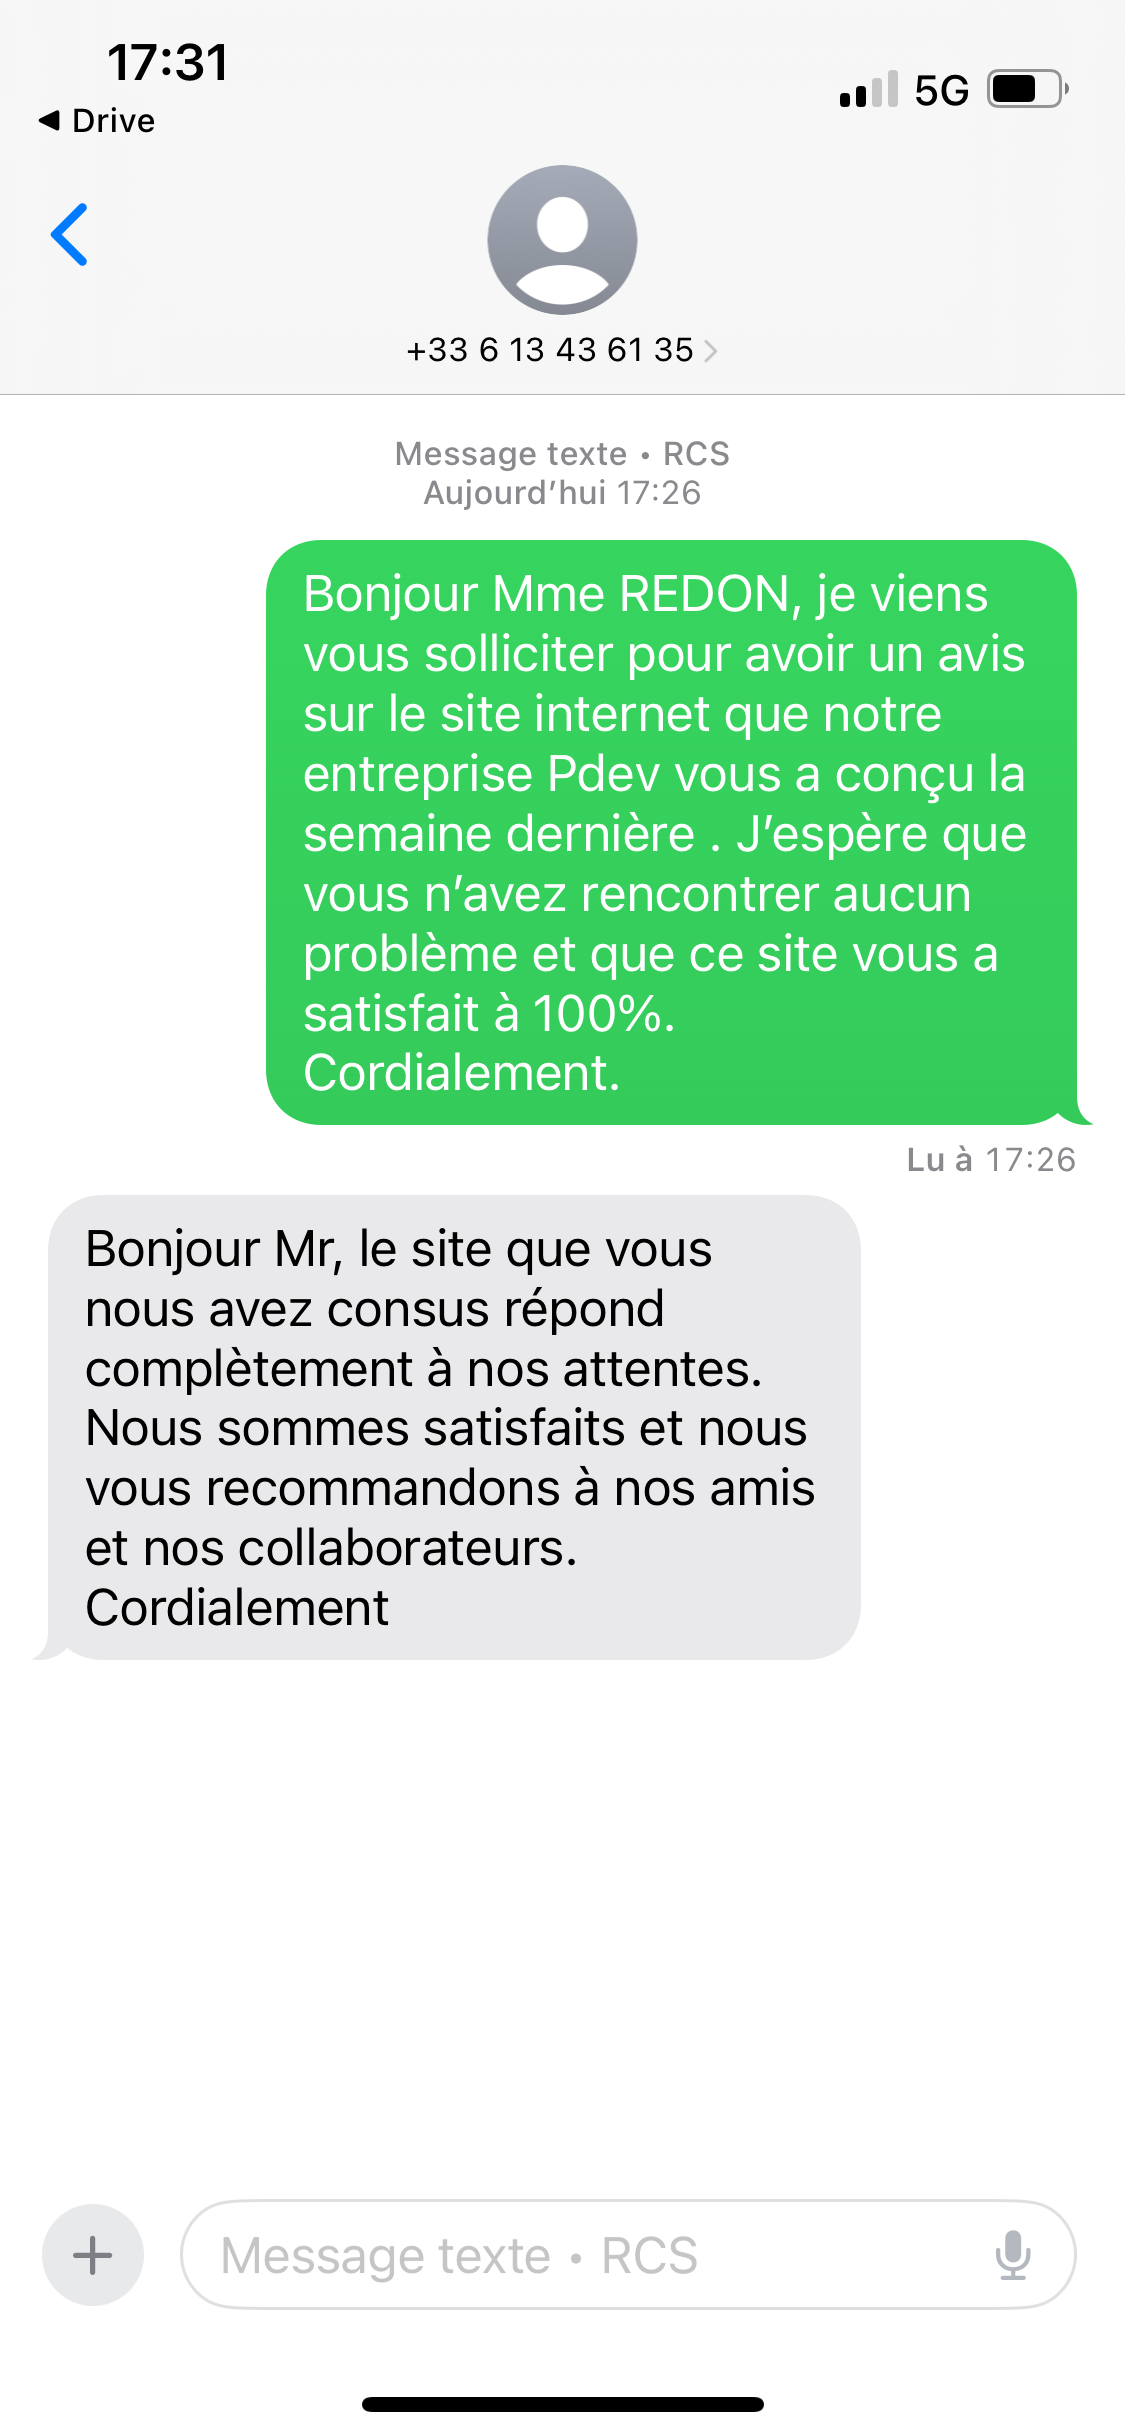
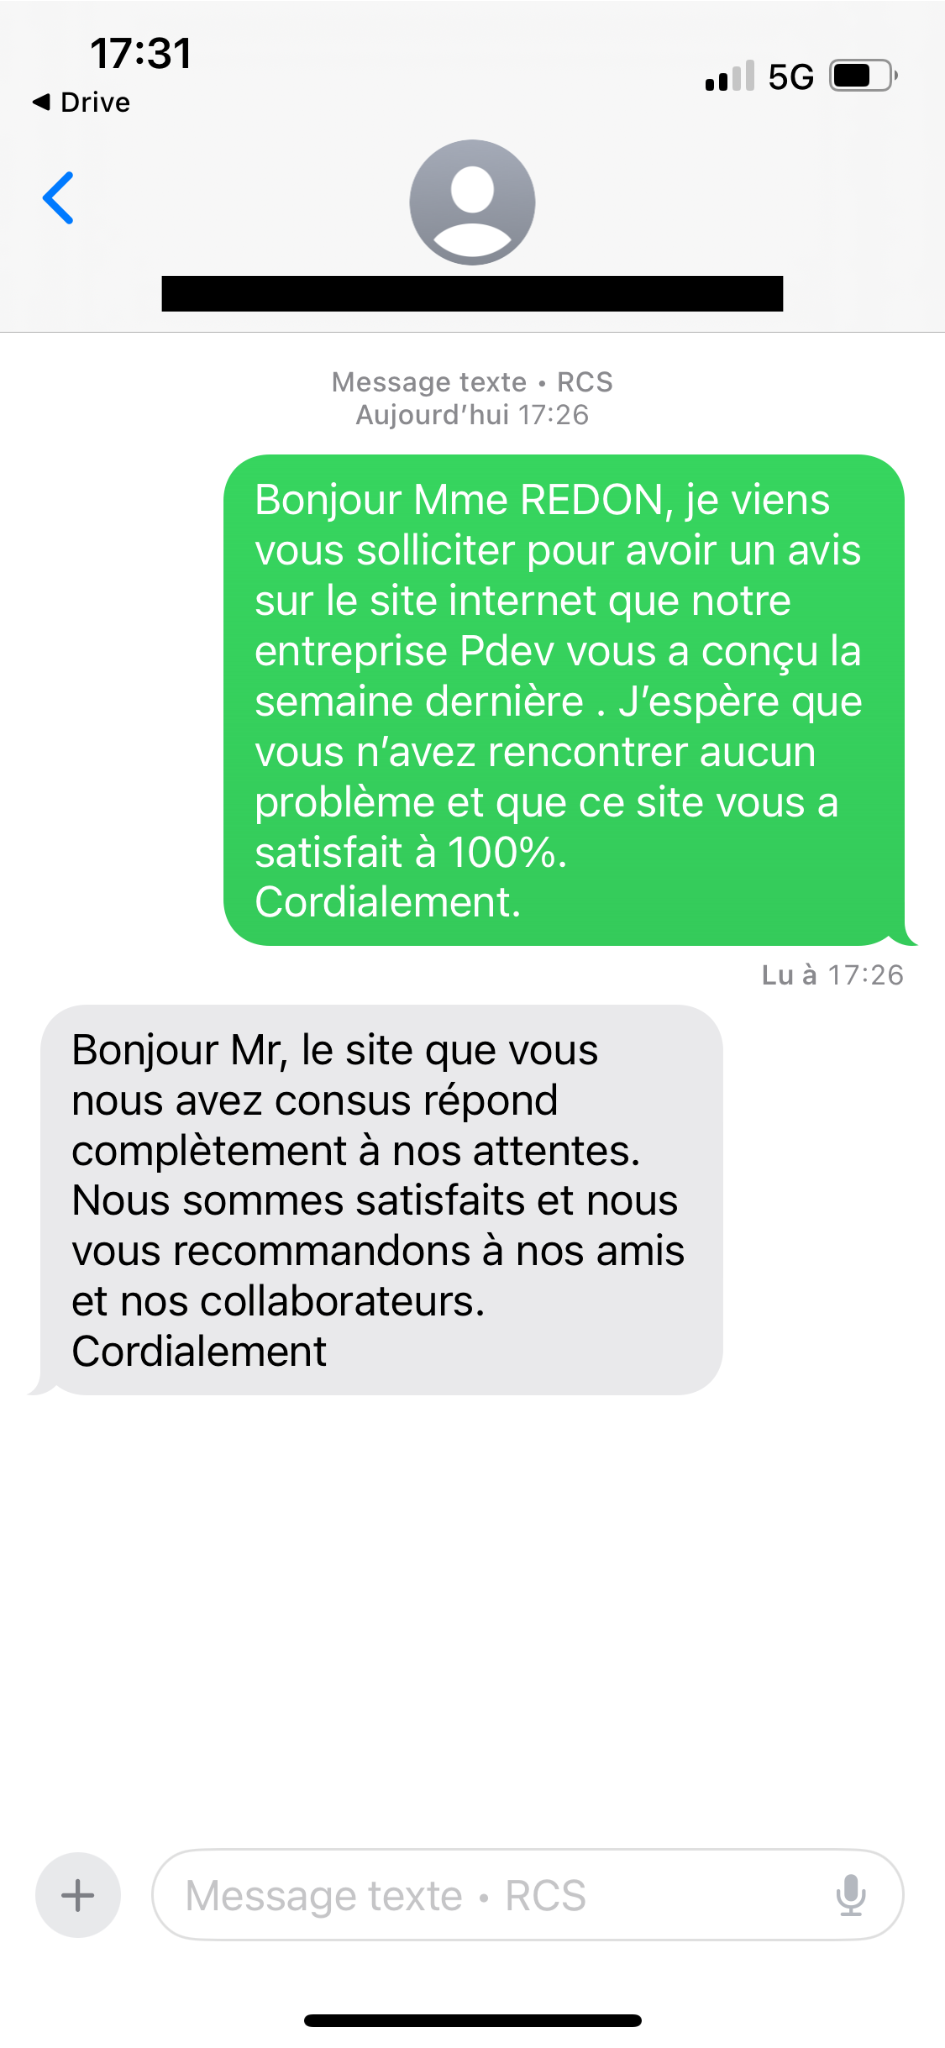
a

diff --git a/src/components/Home.jsx b/src/components/Home.jsx
@@ -26,121 +26,94 @@ navigate("/requestQuote");
         <div className="grid grid-cols-2 max-lg:grid-cols-1 ">
           {/* Partie gauche */}
           <div className="ml-5 text-wrap">
-            <h1 className="mt-30 font-bold text-5xl flex justify-center great-vibes-regular">
-              A quoi servons nous exactement ?
-            </h1>
-            <p className="mt-10 text-lg great-vibes-regular">
-              Ce site permet de faire une demande de devis concernant des
-              prestations sur une application ou un site web. Nous sommes des
-              développeurs avec une grande expérience et nous avons déjà eu
-              quelques clients tous satisfaits par notre travail :
-            </p>
-
-            <div className="flex mt-10 ml-20 gap-20">
-              <Modal />
-              <Modal1 />
-            </div>
-
-            <div className="flex items-start gap-50 mt-20">
-              <div className="text-lg great-vibes-regular">
-                <ul>Nous pouvons réaliser différentes prestations :</ul>
-                <li>Site vitrine</li>
-                <li>Site e-commerce</li>
-                <li>Maquette site internet</li>
-                <li>Dépannage site</li>
-                <li>Back end gestion base de données</li>
-                <li>Amélioration performance du site</li>
+            <div id="container">
+              Obtenez votre
+              <div id="flip">
+                <div><div>moderne</div></div>
+                <div><div>responsive</div></div>
+                <div><div>performant</div></div>
               </div>
-                <div className="flex">
+              Site internet
+            </div>
+            <h2 className="mt-10 font-bold text-4xl flex justify-center great-vibes-regular">
+              A quoi servons nous exactement ?
+            </h2>
+            <p className="mt-10  ml-10 text-lg great-vibes-regular">
+              Ce site permet de faire une demande de devis concernant des
+              prestations sur une application ou un site web. Nous savons tous faire , meme si vous ne trouvez pas votre bonheur dans les prestations proposés hésiter pas à nous contacter , l'informatique ca nous connait !
+            </p>
+            <div className="flex gap-5 mt-10">
+                <a class="block max-w-sm p-6 bg-white border border-gray-200 rounded-lg">
+                <h5 class="mb-2 text-2xl font-bold tracking-tight text-gray-900 dark:text-white">Réalisation de site complet</h5>
+                <p class="font-normal text-gray-700 dark:text-gray-400">Nous pouvons vous éditer un site vitrine ou un site e-commerce.</p>
+                <button type="button" className="bg-gray-200 mt-2 p-2">A partir de 500€</button>
+                </a>
+                <a class="block max-w-sm p-6 bg-white border border-gray-200 rounded-lg">
+                <h5 class="mb-2 text-2xl font-bold tracking-tight text-gray-900 dark:text-white">Dépannage de votre site</h5>
+                <p class="font-normal text-gray-700 dark:text-gray-400">Si vous avez nimporte qu'elle bug, apellez nous !</p>
+                <button type="button" className="bg-gray-200 mt-2 p-2">A partir de 600€</button>
+                </a>
+                <a class="block max-w-sm p-6 bg-white border border-gray-200 rounded-lg">
+                <h5 class="mb-2 text-2xl font-bold tracking-tight text-gray-900 dark:text-white">Réalisation d'une maquette</h5>
+                <p class="font-normal text-gray-700 dark:text-gray-400">Nous pouvons vous éditer une simple maquette de site</p>
+                <button type="button" className="bg-gray-200 mt-2 p-2">A partir de 300€</button>
+                </a>
+            </div>
+                <div className="flex justify-center">
               <button
               onClick={handleClick}
                 className="cursor-pointer mt-15 rounded-md border-2 border-amber-50 w-[150px] h-[50px] relative group overflow-hidden 
                 transition-transform duration-300 ease-out hover:scale-110">
-                <div className="bg-rose-200 text-amber-50 w-full h-full flex flex-col justify-center">
+                <div className="bg-rose-300 text-amber-50 w-full h-full flex flex-col justify-center">
                 Faire une demande
                 </div>
                 <div className="transition-transform ease-out bg-gray-400 opacity-40 absolute w-[20px] h-[60px] -top-2 -skew-x-12 -translate-x-8 group-hover:translate-x-40">&nbsp;</div>
               </button>
-              <FaArrowLeft className="text-gray-300 mt-17 ml-3 w-6 h-8 animate-bounce" />
+              <FaArrowLeft className="text-gray-300 mt-17 ml-3 w-6 h-13 animate-bounce" />
               </div>
+          </div>
+
+{/* Partie droite */}
+<div className="relative w-[700px] h-[400px] mt-20 ml-30">
+  {/* Image arbre */}
+  <img src="./img/arbre.webp" className="w-6xl h-100" />
+
+  {/* Bloc Contact en overlay (items en ligne) */}
+  <div className="absolute top-10 left-12 flex space-x-6 great-vibes-regular text-rose-300 underline text-2xl">CONTACT</div>
+      <div className="absolute top-80 left-10 flex space-x-6 great-vibes-regular text-gray-200">
+          <p className="flex items-center">
+            <EnvelopeIcon className="mr-2 h-6 w-6 text-gray-200" />
+            <a href="https://www.msn.com/fr-fr" target="_blank">eMail</a>
+          </p>
+          <p className="flex items-center">
+            <PhoneIcon className="mr-2 h-6 w-6 text-gray-200" />
+            <span>03.25.25.11.63</span>
+          </p>
+          <p className="flex items-center">
+            <FaLinkedin size={24} className="mr-2 text-gray-200" />
+            <a href="https://www.linkedin.com/in/romain-richardon-4b8083245/" target="_blank">LinkedIn</a>
+          </p>
+          <p className="flex items-center">
+            <FaInstagram size={24} className="mr-2 text-gray-2000" />
+            <a href="https://www.instagram.com/beyonce" target="_blank">Instagram</a>
+          </p>
+          <p className="flex items-center">
+            <FaFacebook size={24} className="mr-2 text-gray-200" />
+            <a href="https://hazemgherissi.com/" target="_blank">Facebook</a>
+            </p>
+            </div>
+            <div className="mt-10 font-bold text-lg flex justify-center great-vibes-regular">Nous avons collaborer avec pas mal de grandes entreprises , tous étaient satisfaits de notre travail</div>
+            <div className="flex mt-10 ml-50 gap-20">
+              <Modal />
+              <Modal1 />
             </div>
           </div>
 
-          {/* Partie droite */}
-          <span className="group max-w-sm p-6 xl:ml-70 lg:ml-30 md:ml-70 sm:ml-35 mt-40 border-b-1-black bg-white border border-gray-900 rounded-lg shadow-sm hover:bg-rose-200 ">
-            <div className="flex justify-center ml-30">
-              <h5 className="flex justify-center mb-2 text-2xl font-bold tracking-tight text-gray-900 group-hover:text-white great-vibes-regular">
-                Contact
-              </h5>
-              <svg
-                xmlns="http://www.w3.org/2000/svg"
-                width="128"
-                height="45"
-                viewBox="0 0 128 128"
-              >
-                <text
-                  x="50%"
-                  y="50%"
-                  dominantBaseline="middle"
-                  textAnchor="middle"
-                  fontSize="96"
-                >
-                  🌸
-                </text>
-              </svg>
-            </div>
-            
-            <div className="space-y-10 mt-12 flex-col great-vibes-regular">
-              <p className="flex font-normal text-gray-700 group-hover:text-white">
-                <EnvelopeIcon className="mr-2 text-[#ffccd3] group-hover:text-white h-7 w-7" />{" "}
-                <a href="https://www.msn.com/fr-fr" target="_blank">
-                  eMail
-                </a>
-              </p>
-              <p className="flex font-normal text-gray-700 group-hover:text-white">
-                <PhoneIcon className="mr-2 text-[#ffccd3] group-hover:text-white h-7 w-7" />
-                <span className=""> 03.25.25.11.63</span>
-              </p>
-              <p className="flex font-normal text-gray-700 group-hover:text-white">
-                <FaLinkedin
-                  size={30}
-                  className="mr-2 text-[#ffccd3] group-hover:text-white"
-                />{" "}
-                <a
-                  href="https://www.linkedin.com/in/romain-richardon-4b8083245/"
-                  target="_blank"
-                >
-                  LinkedIn
-                </a>{" "}
-              </p>
-              <p className="flex font-normal text-gray-700 group-hover:text-white">
-                <FaInstagram
-                  size={30}
-                  className="mr-2 text-[#ffccd3] group-hover:text-white"
-                />
-                <a
-                  href="https://www.instagram.com/beyonce?igsh=MXRsajlseTRoYmNqdw=="
-                  target="_blank"
-                >
-                  Instagram
-                </a>{" "}
-              </p>
-              <p className="flex font-normal text-gray-700 group-hover:text-white">
-                <FaFacebook
-                  size={30}
-                  className="mr-2 text-[#ffccd3] group-hover:text-white"
-                />
-                <a href="https://hazemgherissi.com/" target="_blank">
-                  Facebook
-                </a>
-              </p>
-            </div>
-          </span>
         </div>
+        
       </main>
-
       {/* Footer toujours en bas */}
-      <Footer />
-    </div>
+  <Footer />
+</div>
   );
 }

diff --git a/src/index.css b/src/index.css
@@ -1,6 +1,60 @@
 @import "tailwindcss";
 @import url('https://fonts.googleapis.com/css2?family=Playfair+Display:wght@400;500;600;700&display=swap');
 @import url('https://fonts.googleapis.com/css2?family=Great+Vibes&family=Inconsolata:wdth,wght@95.9,558&display=swap');
+@import url('https://fonts.googleapis.com/css?family=Roboto:700');
+
+body {
+  margin:0px;
+  text-align:center;
+}
+
+#container {
+  color:#000000;
+  margin-top: 60px;
+  text-transform: uppercase;
+  font-size:36px;
+  font-weight:bold;
+  display:block;
+}
+
+#flip {
+  height:50px;
+  overflow:hidden;
+}
+
+#flip > div > div {
+  color:#000000;
+  padding: 2px 20px;
+  height:45px;
+  margin-bottom:45px;
+  display:inline-block;
+}
+
+#flip div:first-child {
+  animation: show 5s linear infinite;
+}
+
+#flip div div {
+  background:#9c73b4;
+}
+#flip div:first-child div {
+  background:#e4e6eb;
+}
+#flip div:last-child div {
+  background:#ffa1ad;
+}
+
+@keyframes show {
+  0% {margin-top:-270px;}
+  5% {margin-top:-180px;}
+  33% {margin-top:-180px;}
+  38% {margin-top:-90px;}
+  66% {margin-top:-90px;}
+  71% {margin-top:0px;}
+  99.99% {margin-top:0px;}
+  100% {margin-top:-270px;}
+}
+
 
 .font-playfair {
       font-family: "Playfair Display", serif;

diff --git a/src/components/Modal1.jsx b/src/components/Modal1.jsx
@@ -11,7 +11,7 @@ export default function Modal1() {
   className="rounded-md border-2 border-amber-50 w-[100px] h-[50px] relative group overflow-hidden 
              transition-transform duration-300 ease-out hover:scale-110 cursor-pointer"
 >
-  <div className="bg-rose-200 text-amber-50 w-full h-full flex flex-col justify-center">
+  <div className="bg-rose-300 text-amber-50 w-full h-full flex flex-col justify-center">
     Avis 2
   </div>
   <div className="transition-transform ease-out bg-gray-400 opacity-40 absolute w-[20px] h-[60px] 
@@ -39,7 +39,7 @@ export default function Modal1() {
                     <span className="sr-only">Close modal</span>
                 </button>
             </div>
-            <img src="/img/message2.PNG"   alt="message2" className="w-full h-auto max-h-[70vh] object-contain rounded-lg"/>
+            <img src="/img/message2.png"   alt="message2" className="w-full h-auto max-h-[70vh] object-contain rounded-lg"/>
             </div>
         </div>
     )}

diff --git a/src/components/Footer.jsx b/src/components/Footer.jsx
@@ -11,7 +11,7 @@ export default function Footer() {
     <p className="text-2xl underline">En savoir plus sur l'entreprise:</p>
     <a href="https://fr.freepik.com/photos-gratuite/groupe-adolescents-uniforme-pom-pom-girl-mignon_18773966.htm#fromView=keyword&page=1&position=13&uuid=af47da89-0059-46fc-a955-fc5931400701&query=Esprit+Equipe+Pom+Pom+Girls" target="_blank"> Notre équipe</a>
     <p className="">Ville : Fontenay-le-comte  </p>
-    <p className="flex gap-2">Pays : <img src="/img/french.svg" className="w-4"/></p>
+    <p className="flex justify-center gap-2">Pays : <img src="/img/french.svg" className="w-4"/></p>
     <a href="https://www.economie.gouv.fr/entreprises/innover-et-numeriser-son-entreprise/mentions-sur-votre-site-internet-les-obligations" target="_blank">Mentions légales  </a>
     <a href="https://www.economie.gouv.fr/politique-confidentialite" target="_blank">Politique de confidentialité  </a>
     </div>

diff --git a/src/components/Dashboard.jsx b/src/components/Dashboard.jsx
@@ -69,7 +69,7 @@ return(
                 onClick={handleClick}
                 className="cursor-pointer  rounded-md border-2 border-amber-50 w-[150px] h-[50px] relative group overflow-hidden 
                 transition-transform duration-300 ease-out hover:scale-110">
-                <div className="bg-rose-200 text-amber-50 w-full h-full flex flex-col justify-center">
+                <div className="bg-rose-300 text-amber-50 w-full h-full flex flex-col justify-center">
                 Faire une demande
                 </div>
                 <div className="transition-transform ease-out bg-gray-400 opacity-40 absolute w-[20px] h-[60px] -top-2 -skew-x-12 -translate-x-8 group-hover:translate-x-40">&nbsp;</div>

diff --git a/src/components/Register.jsx b/src/components/Register.jsx
@@ -150,7 +150,7 @@ export default function Register() {
       type="submit"
       className="rounded-md border-2 border-amber-50 w-[380px] h-[50px] relative group overflow-hidden transition-transform duration-300 ease-out hover:scale-110 cursor-pointer"
       >
-      <div className="bg-rose-200 text-amber-50 w-full h-full flex flex-col justify-center">
+      <div className="bg-rose-300 text-amber-50 w-full h-full flex flex-col justify-center">
         S'enregistrer
       </div>
       <div className="transition-transform ease-out bg-gray-400 opacity-40 absolute w-[20px] h-[60px] -top-2 -skew-x-12 -translate-x-8 group-hover:translate-x-100">&nbsp;</div>

diff --git a/src/components/Login.jsx b/src/components/Login.jsx
@@ -116,7 +116,7 @@ export default function Login () {
       type="submit"
       className="rounded-md border-2 border-amber-50 w-[380px] h-[50px] relative group overflow-hidden transition-transform duration-300 ease-out hover:scale-110 cursor-pointer"
       >
-      <div className="bg-rose-200 text-amber-50 w-full h-full flex flex-col justify-center">
+      <div className="bg-rose-300 text-amber-50 w-full h-full flex flex-col justify-center">
         Se connecter
       </div>
       <div className="transition-transform ease-out bg-gray-400 opacity-40 absolute w-[20px] h-[60px] -top-2 -skew-x-12 -translate-x-8 group-hover:translate-x-100">&nbsp;</div>

diff --git a/src/components/ForgotPassword.jsx b/src/components/ForgotPassword.jsx
@@ -56,7 +56,7 @@ e.preventDefault();
   className="rounded-md border-2 border-amber-50 w-[390px] h-[50px] relative group overflow-hidden 
              transition-transform duration-300 ease-out hover:scale-110 cursor-pointer"
 >
-  <div className="bg-rose-200 text-amber-50 w-full h-full flex flex-col justify-center">
+  <div className="bg-rose-300 text-amber-50 w-full h-full flex flex-col justify-center">
     Demander une réinitialisation de mots de passe
   </div>
   <div className="transition-transform ease-out bg-gray-400 opacity-40 absolute w-[20px] h-[60px] -top-2 -skew-x-12 -translate-x-8 group-hover:translate-x-110">&nbsp;</div>

diff --git a/src/components/Modal.jsx b/src/components/Modal.jsx
@@ -10,7 +10,7 @@ const [isOpen, setIsOpen] = useState(false);
   className="rounded-md border-2 border-amber-50 w-[100px] h-[50px] relative group overflow-hidden 
              transition-transform duration-300 ease-out hover:scale-110 cursor-pointer"
 >
-  <div className="bg-rose-200 text-amber-50 w-full h-full flex flex-col justify-center">
+  <div className="bg-rose-300 text-amber-50 w-full h-full flex flex-col justify-center">
     Avis 1
   </div>
   <div className="transition-transform ease-out bg-gray-400 opacity-40 absolute w-[20px] h-[60px] 
